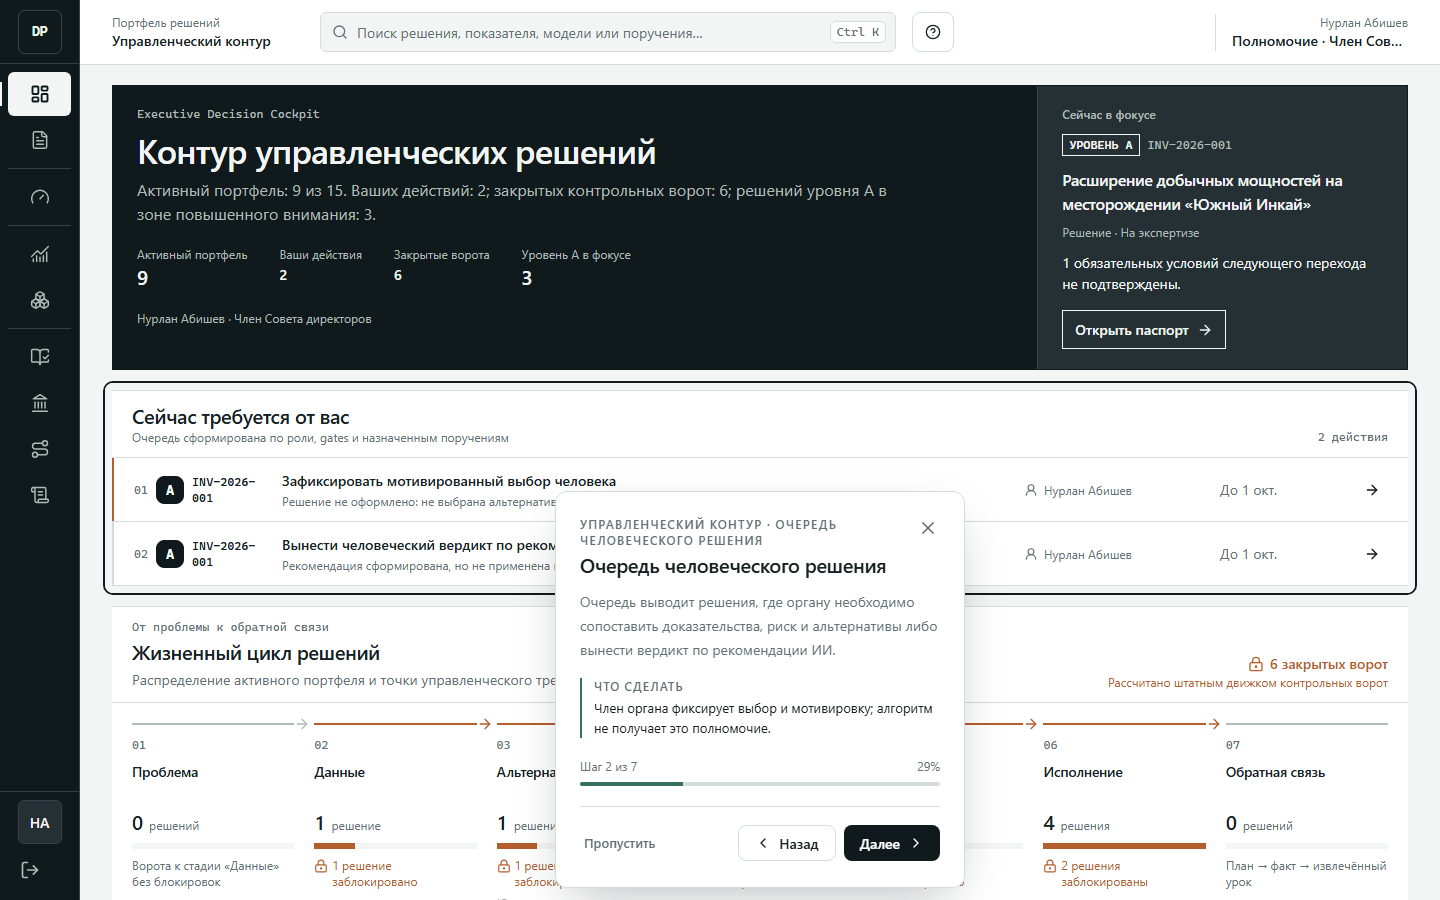
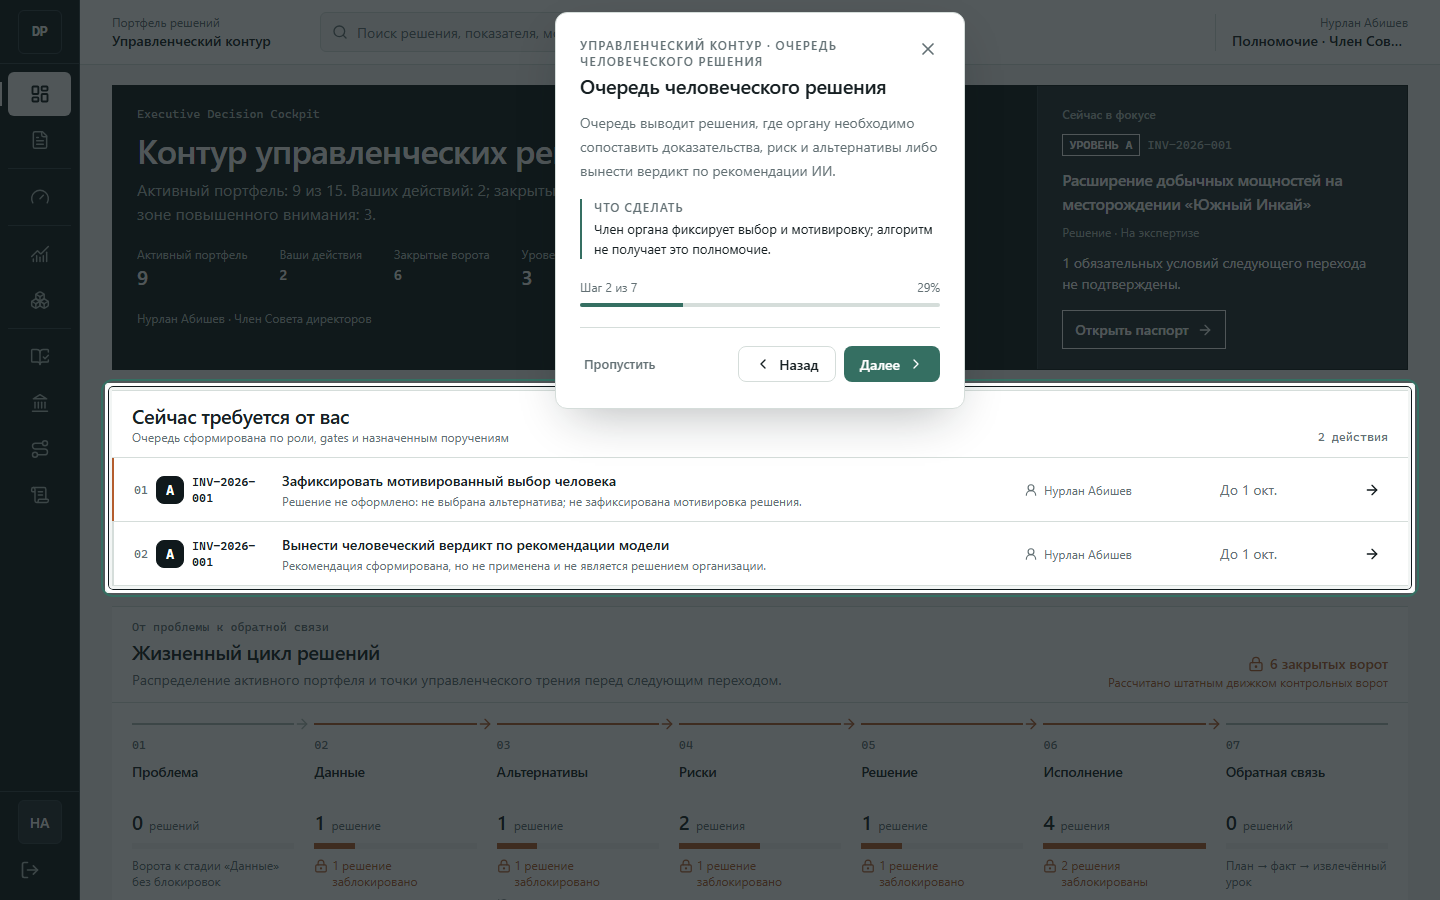
onboarding: strengthen spotlight focus

diff --git a/components/onboarding/tour-surface.tsx b/components/onboarding/tour-surface.tsx
@@ -96,6 +96,25 @@ function clampPosition(position: { top: number; left: number }, width: number, h
   };
 }
 
+function overlapArea(
+  position: { top: number; left: number },
+  width: number,
+  height: number,
+  target: SpotlightRect
+): number {
+  const overlapWidth = Math.max(
+    0,
+    Math.min(position.left + width, target.left + target.width) -
+      Math.max(position.left, target.left)
+  );
+  const overlapHeight = Math.max(
+    0,
+    Math.min(position.top + height, target.top + target.height) -
+      Math.max(position.top, target.top)
+  );
+  return overlapWidth * overlapHeight;
+}
+
 function resolvePosition(
   target: SpotlightRect | null,
   preferred: TourPlacement,
@@ -131,8 +150,26 @@ function resolvePosition(
     if (fitsViewport(candidate, width, height)) return { ...candidate, placement };
   }
 
-  const fallback = candidatePosition(preferred, target, width, height);
-  return { ...clampPosition(fallback, width, height), placement: preferred };
+  const fallback = preferredPlacements(preferred)
+    .map((placement) => {
+      const clamped = clampPosition(
+        candidatePosition(placement, target, width, height),
+        width,
+        height
+      );
+      return {
+        ...clamped,
+        placement,
+        overlap: overlapArea(clamped, width, height, target),
+      };
+    })
+    .sort((left, right) => left.overlap - right.overlap)[0]!;
+
+  return {
+    top: fallback.top,
+    left: fallback.left,
+    placement: fallback.placement,
+  };
 }
 
 export function TourSurface({
@@ -211,7 +248,7 @@ export function TourSurface({
 
   if (!mounted) return null;
 
-  const dimmerClass = "pointer-events-auto fixed z-[90] bg-obsidian/55 transition-[top,left,width,height] duration-[260ms] ease-[cubic-bezier(0.22,1,0.36,1)] motion-reduce:transition-none";
+  const dimmerClass = "onboarding-dimmer pointer-events-auto fixed z-[90] transition-[top,left,width,height] duration-[260ms] ease-[cubic-bezier(0.22,1,0.36,1)] motion-reduce:transition-none";
   const progress = ((stepIndex + 1) / stepCount) * 100;
 
   return createPortal(
@@ -227,7 +264,11 @@ export function TourSurface({
       )}
       {targetRect ? (
         <>
-          <div className={dimmerClass} style={{ inset: `0 0 auto 0`, height: targetRect.top }} />
+          <div
+            className={dimmerClass}
+            style={{ inset: `0 0 auto 0`, height: targetRect.top }}
+            data-testid="onboarding-dimmer"
+          />
           <div className={dimmerClass} style={{ top: targetRect.top, left: 0, width: targetRect.left, height: targetRect.height }} />
           <div
             className={dimmerClass}
@@ -243,7 +284,7 @@ export function TourSurface({
             style={{ top: targetRect.top + targetRect.height, right: 0, bottom: 0, left: 0 }}
           />
           <div
-            className="pointer-events-none fixed z-[91] rounded-control border-2 border-paper shadow-[0_0_0_2px_var(--obsidian)] transition-[top,left,width,height] duration-[260ms] ease-[cubic-bezier(0.22,1,0.36,1)] motion-reduce:transition-none"
+            className="onboarding-spotlight pointer-events-none fixed z-[91] rounded-control transition-[top,left,width,height] duration-[260ms] ease-[cubic-bezier(0.22,1,0.36,1)] motion-reduce:transition-none"
             style={targetRect}
             aria-hidden="true"
             data-testid="onboarding-spotlight"
@@ -257,7 +298,11 @@ export function TourSurface({
           )}
         </>
       ) : (
-        <div className="pointer-events-auto fixed inset-0 z-[90] bg-obsidian/55" aria-hidden="true" />
+        <div
+          className="onboarding-dimmer pointer-events-auto fixed inset-0 z-[90]"
+          aria-hidden="true"
+          data-testid="onboarding-dimmer"
+        />
       )}
 
       <div

diff --git a/app/globals.css b/app/globals.css
@@ -52,6 +52,7 @@
   --radius-panel: 12px;
   --shadow-panel: 0 1px 2px rgb(16 25 28 / 0.06), 0 8px 24px -20px rgb(16 25 28 / 0.32);
   --shadow-overlay: 0 18px 48px -16px rgb(16 25 28 / 0.32);
+  --onboarding-dimmer: rgb(16 25 28 / 0.72);
 }
 
 @keyframes onboarding-content-enter {
@@ -150,6 +151,19 @@
     background: var(--surface);
     border-radius: var(--radius-panel);
     box-shadow: var(--shadow-panel);
+  }
+
+  /* Spotlight uses an explicit alpha token. Tailwind opacity modifiers cannot
+     derive alpha from colors declared as plain CSS variables. */
+  .onboarding-dimmer {
+    background-color: var(--onboarding-dimmer);
+  }
+
+  .onboarding-spotlight {
+    border: 3px solid var(--surface);
+    outline: 2px solid var(--accent);
+    outline-offset: 2px;
+    box-shadow: inset 0 0 0 1px var(--obsidian);
   }
 
   .technical-detail {

diff --git a/ONBOARDING-VISUAL-QA.md b/ONBOARDING-VISUAL-QA.md
@@ -56,6 +56,9 @@
 ## Фактическая приёмка
 
 - Дата: 2 сентября 2026 года.
+- Spotlight acceptance обновлён 3 сентября 2026 года: фон `rgba(16, 25, 28, 0.72)`,
+  белая рамка 3 px и внешний акцентный контур 2 px; fallback выбирает позицию coach card
+  с минимальным перекрытием target.
 - Golden viewport: 1440×900; просмотрены все 18 PNG после финальной регенерации.
 - Отдельно исправлен и повторно принят кадр 14: target человеческого вердикта полностью виден,
   coach card его не перекрывает, metadata-заголовок не сталкивается с соседними колонками.
